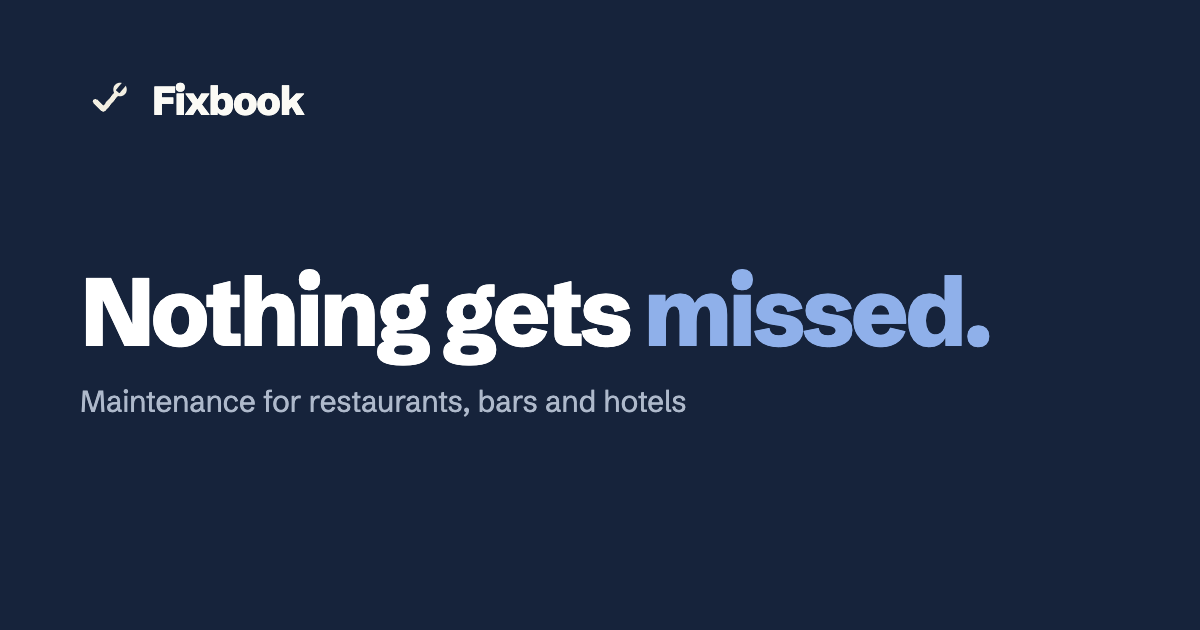
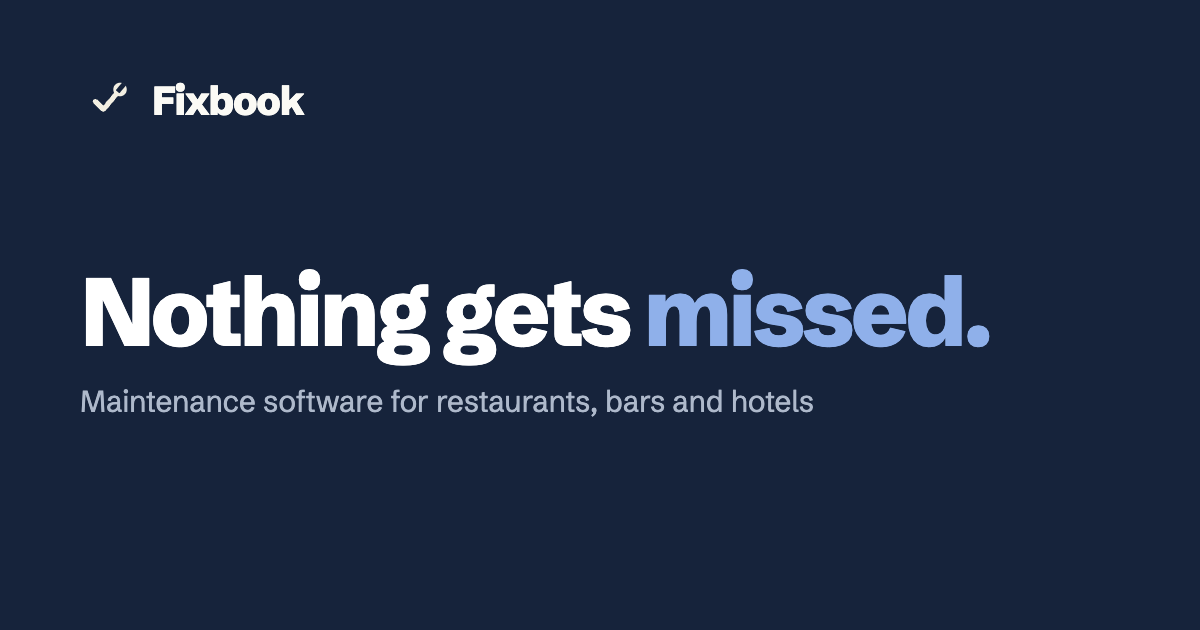
Call it maintenance software

Changed region(s): [[0.2158, 0.6032, 0.6783, 0.6635]]

diff --git a/index.html b/index.html
@@ -4,10 +4,10 @@
 <meta charset="utf-8">
 <meta name="viewport" content="width=device-width, initial-scale=1">
 <title>Fixbook | Sign in</title>
-<meta name="description" content="Fixbook: maintenance for restaurants, bars and hotels. Sign in to your account.">
+<meta name="description" content="Fixbook: maintenance software for restaurants, bars and hotels. Sign in to your account.">
 <link rel="canonical" href="https://getfixbook.com/">
 <meta property="og:title" content="Fixbook | Nothing gets missed">
-<meta property="og:description" content="Maintenance for restaurants, bars and hotels.">
+<meta property="og:description" content="Maintenance software for restaurants, bars and hotels.">
 <meta property="og:url" content="https://getfixbook.com/">
 <meta property="og:image" content="https://getfixbook.com/img/og.png">
 <meta name="theme-color" content="#16233B">
@@ -50,7 +50,7 @@ footer a:hover{color:#FBFAF5}
   <div class="box rise">
     <a class="mark" href="/" aria-label="Fixbook"><svg width="40" height="40" viewBox="96 96 320 320" aria-hidden="true"><defs><mask id="fbjaw"><rect width="512" height="512" fill="#fff"/><rect x="352" y="96" width="44" height="96" rx="6" transform="rotate(40 374 144)" fill="#000"/></mask></defs><g mask="url(#fbjaw)"><path d="M140 268 L214 342 L352 178" fill="none" stroke="#F3EFE2" stroke-width="46" stroke-linecap="round" stroke-linejoin="round"/><circle cx="366" cy="160" r="62" fill="#F3EFE2"/></g></svg> Fixbook</a>
     <h1>Nothing gets <span>missed.</span></h1>
-    <p>Maintenance for restaurants, bars and hotels.</p>
+    <p>Maintenance software for restaurants, bars and hotels.</p>
     <a class="go" href="https://app.getfixbook.com/login">Sign in <span aria-hidden="true">&rarr;</span></a>
     <p class="help">Need access? <a href="mailto:hello@getfixbook.com?subject=Fixbook">Get in touch</a></p>
   </div>
